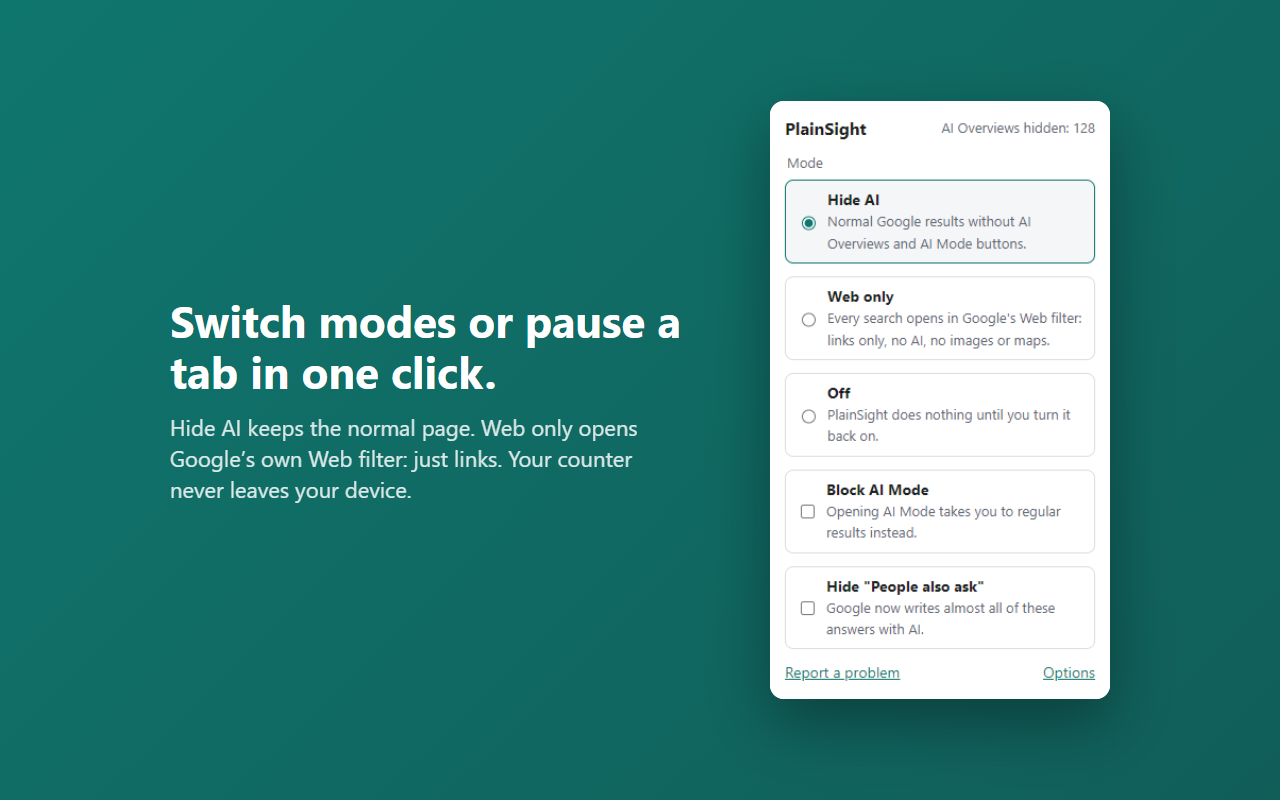
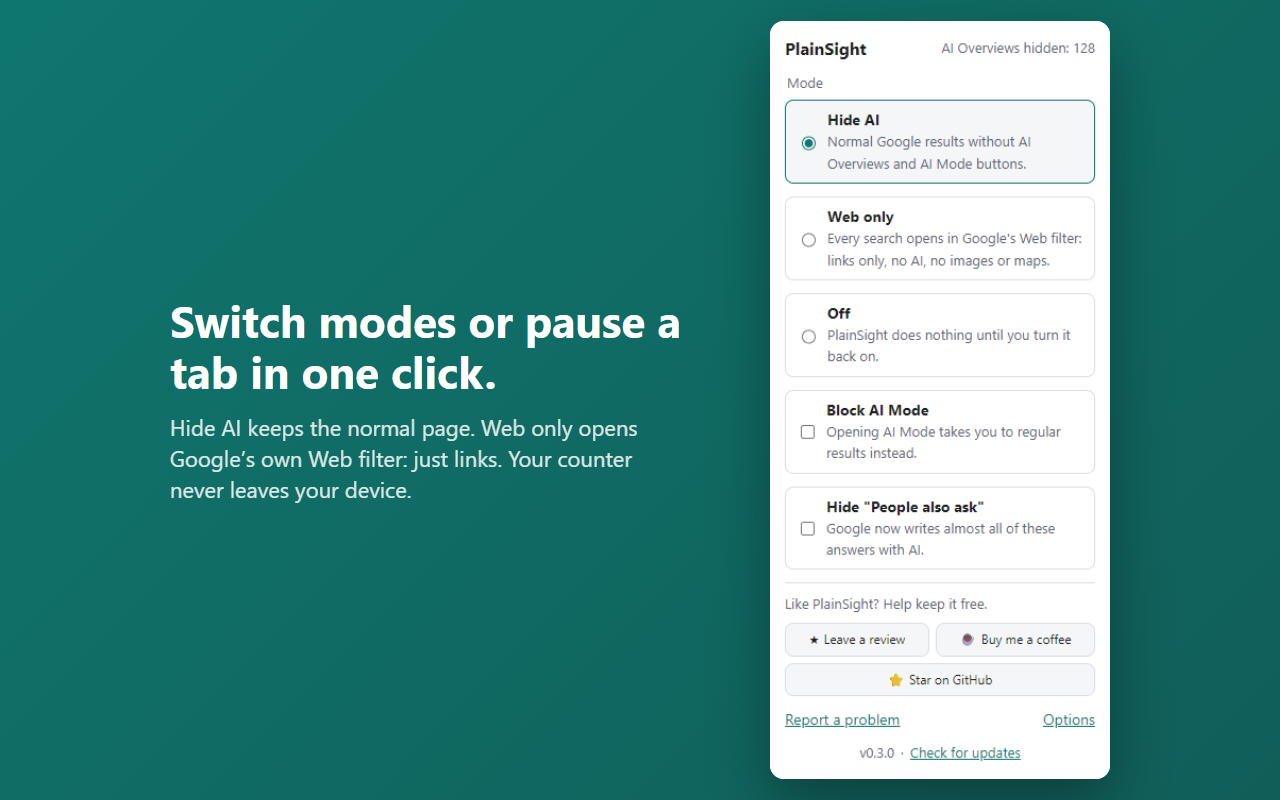
Add store submission cheat sheet, refresh store images, bump to 0.3.0

Changed region(s): [[0.5938, 0.0, 0.875, 1.0]]

diff --git a/store/SUBMIT.md b/store/SUBMIT.md
@@ -1,0 +1,50 @@
+# What to paste where (store submission cheat sheet)
+
+Files: zips from the latest GitHub release (also in `.output/store-ready/`), images in `store/assets/`, texts below.
+
+## Texts, for every store
+
+| Field                       | Where to copy it from                                                                                     |
+| --------------------------- | --------------------------------------------------------------------------------------------------------- |
+| Name / title                | Comes from the package (`extName`). English: `PlainSight: Hide AI Overviews & AI Mode for Google Search™` |
+| Short description / summary | Comes from the package (`extDescription`). Also in `store/listing/en.md`, "Short description"             |
+| Full / detailed description | `store/listing/<locale>.md`, everything under "Full description" (19 languages)                           |
+| Category                    | Chrome: Productivity (Workflow & Planning). Edge: Productivity. Firefox: Search Tools                     |
+| Website / homepage          | https://github.com/GrantTotinov/PlainSight                                                                |
+| Support URL / email         | https://github.com/GrantTotinov/PlainSight/issues                                                         |
+| Privacy policy URL          | https://granttotinov.github.io/PlainSight/PRIVACY.html                                                    |
+| License (AMO)               | MIT                                                                                                       |
+| Price                       | Free                                                                                                      |
+
+Paste each language's full description into that language's listing. The store takes title and short description from the package `_locales`, so those are already translated.
+
+## Images
+
+| Store   | Upload                                                                                                                                                                                                 |
+| ------- | ------------------------------------------------------------------------------------------------------------------------------------------------------------------------------------------------------ |
+| Chrome  | Icon `store-icon-128.png`, screenshots `1-before-after.png` `2-popup.png` `3-welcome.png` `4-privacy.png`, small promo tile `promo-small-440x280.png` (required), marquee `promo-marquee-1400x560.png` |
+| Edge    | Logo `edge-logo-300.png`, the same 4 screenshots, optional tiles `promo-small-440x280.png` and `promo-marquee-1400x560.png`                                                                            |
+| Firefox | The same 4 screenshots (the icon comes from the package)                                                                                                                                               |
+
+## Chrome Web Store, "Privacy practices" tab
+
+- **Single purpose:** Remove AI-generated features (AI Overviews, AI Mode entry points) from Google Search so users see regular web results.
+- **storage justification:** Saves the user's mode and options, a local counter shown in the popup, and the latest hiding rules.
+- **declarativeNetRequestWithHostAccess justification:** Adds Google's own Web filter parameter (udm=14) to Google searches in the optional Web only mode, and redirects AI Mode to regular results if the user turns that option on. It does not change the default search engine.
+- **Host permission justification:** Only Google Search domains. Needed for the redirects above and for the content script that hides AI blocks on Google Search pages.
+- **Remote code:** No. (Once a day the extension downloads a JSON file of CSS selectors and heading texts from its public GitHub repository: data, not code. Disclosed in Options, on the welcome page, in the listing and in the privacy policy.)
+- **Data usage:** tick nothing. Certify the three statements (no selling, no unrelated use, no creditworthiness use).
+
+## Firefox Add-ons (AMO)
+
+- **Source code:** upload `plainsight-<version>-sources.zip`.
+- **Notes to reviewer:** Build with Node 24 and pnpm: `pnpm install --frozen-lockfile && pnpm build:firefox`, output in `.output/firefox-mv3`. The only `web-ext lint` warning (innerHTML) comes from the bundled Preact runtime (`dangerouslySetInnerHTML` support), which PlainSight never uses. The extension downloads a JSON file of CSS selectors from its own public GitHub repository once a day (data only, validated, can be turned off in Options); nothing about the user is sent.
+- **Compatibility:** Firefox and Firefox for Android.
+- **Data collection:** already declared in the package as none.
+
+## Edge Add-ons
+
+- **Notes for certification:** same text as the AMO reviewer notes.
+- Availability: all markets. Visibility: public.
+
+More context: `store/privacy.md` (privacy answers), `store/assets.md` (image sizes), `docs/RELEASING.md` (release steps, automated updates).
